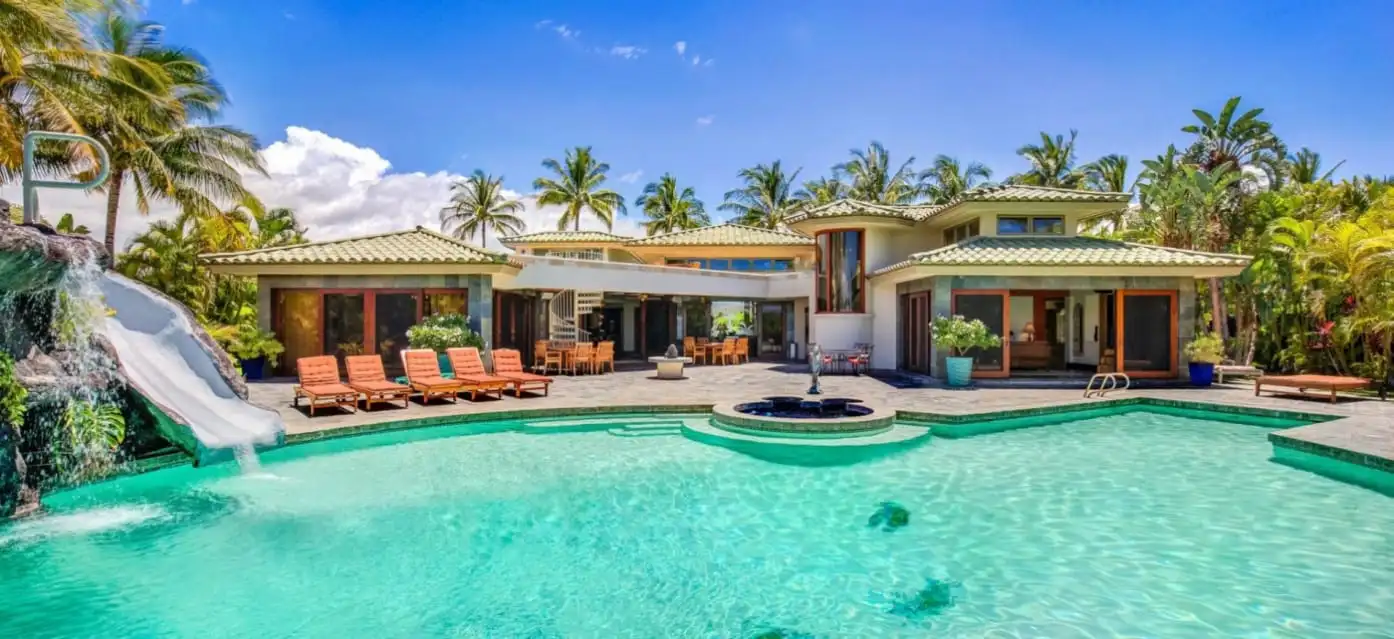
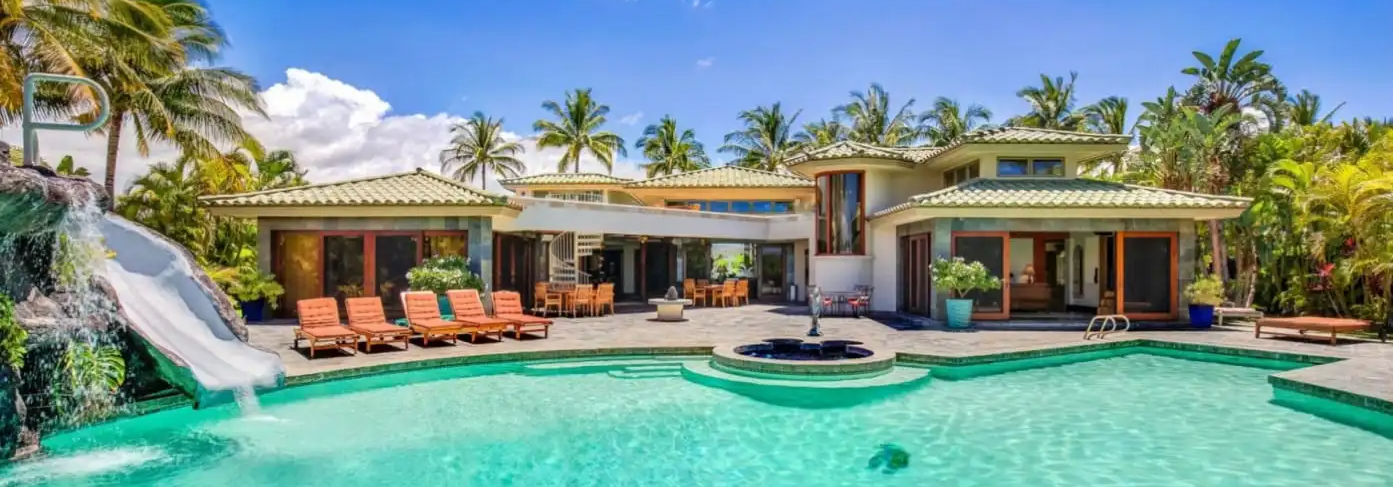
Modified image sizes & Changed 404 page route

diff --git a/src/app/app-routing.module.ts b/src/app/app-routing.module.ts
@@ -17,10 +17,9 @@ const routes: Routes = [
     loadChildren: () => import('@features/detailspage/detailspage.module').then(m => m.DetailsModule) 
   },
   {
-    path: '404',
+    path: '**',
     loadChildren: () => import("@features/not-found/not-found.module").then(m => m.NotFoundModule)
-  },
-  {path: '**', redirectTo: '/404'}
+  }
 ];
 
 @NgModule({
